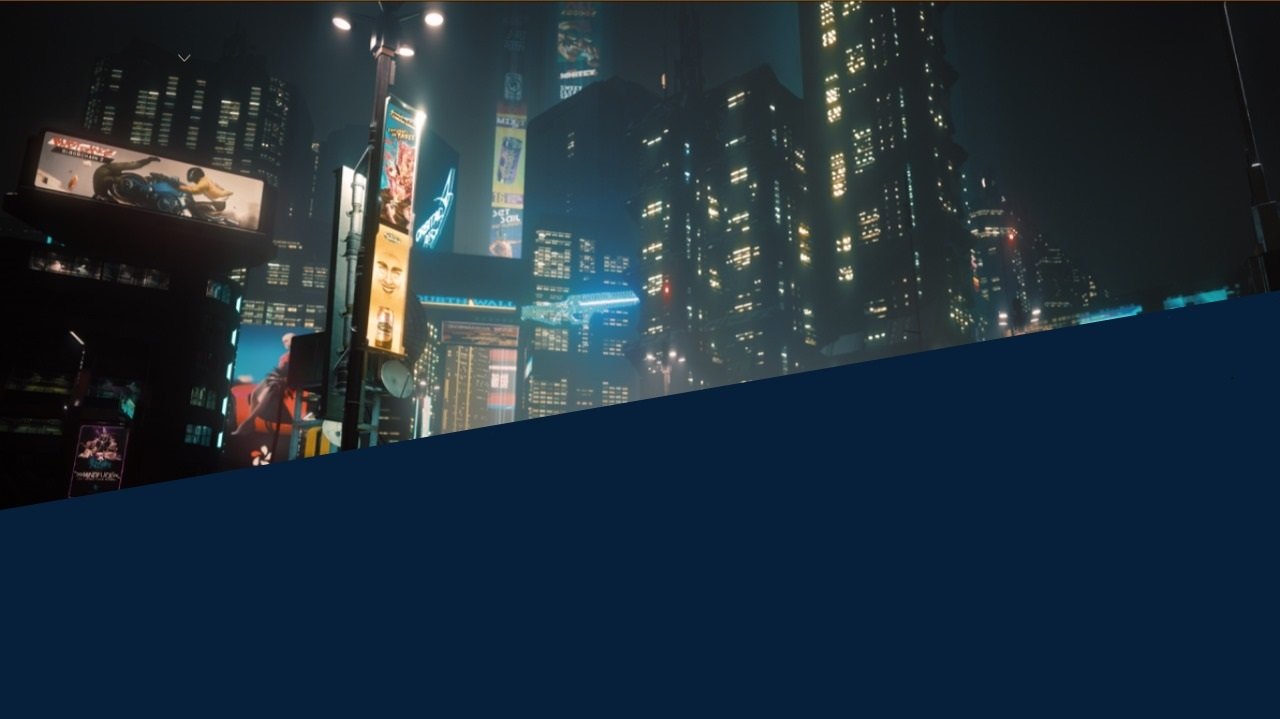
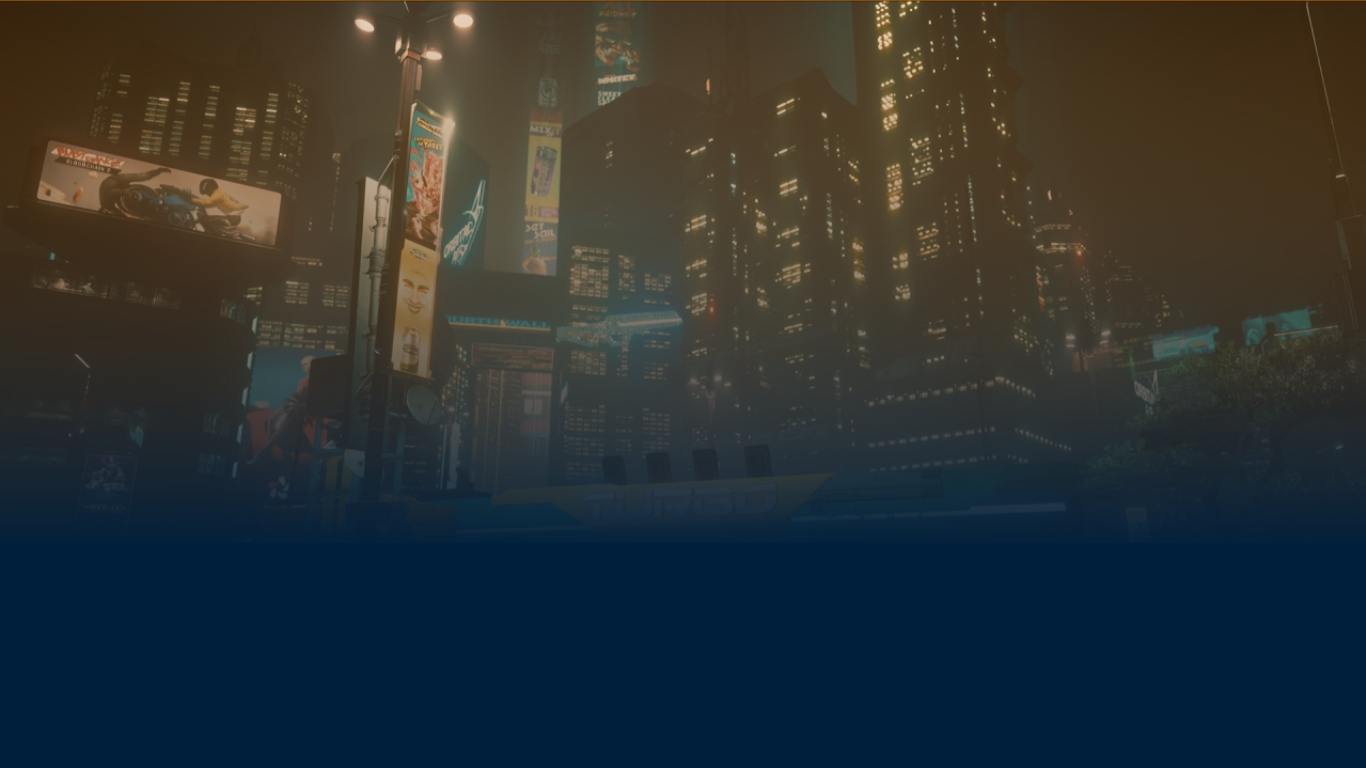
Add files via upload

diff --git a/style.css b/style.css
@@ -3,7 +3,10 @@
     padding: 0;
 }
 body{
-    background: rgb(168, 167, 167);
+    background-image: url('imagens/background.jpg');
+    background-repeat: no-repeat;
+    background-size: cover;
+    height: 100vh;
     font-family: Poppins;
     color: white;
 }
